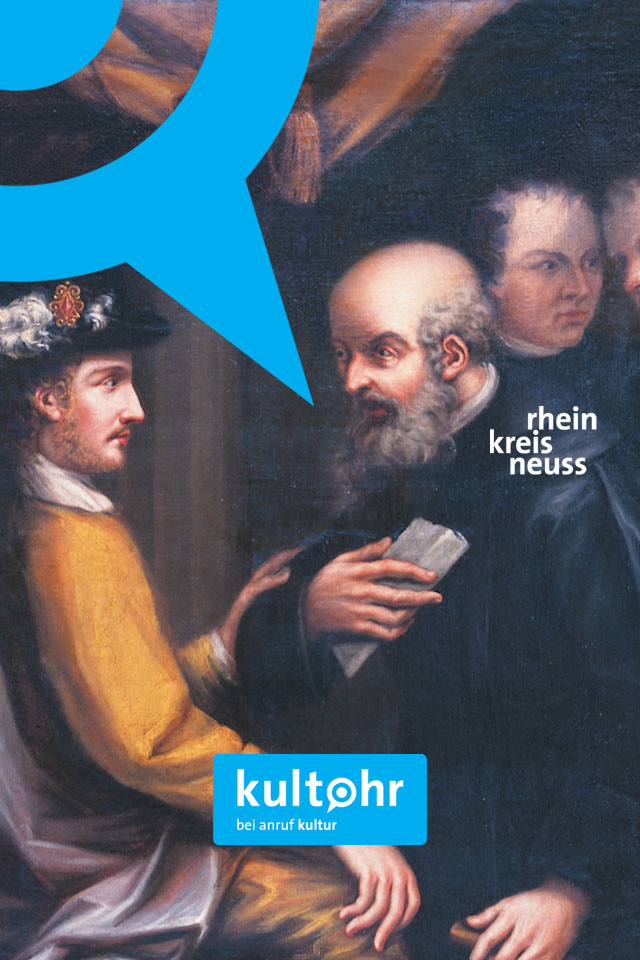
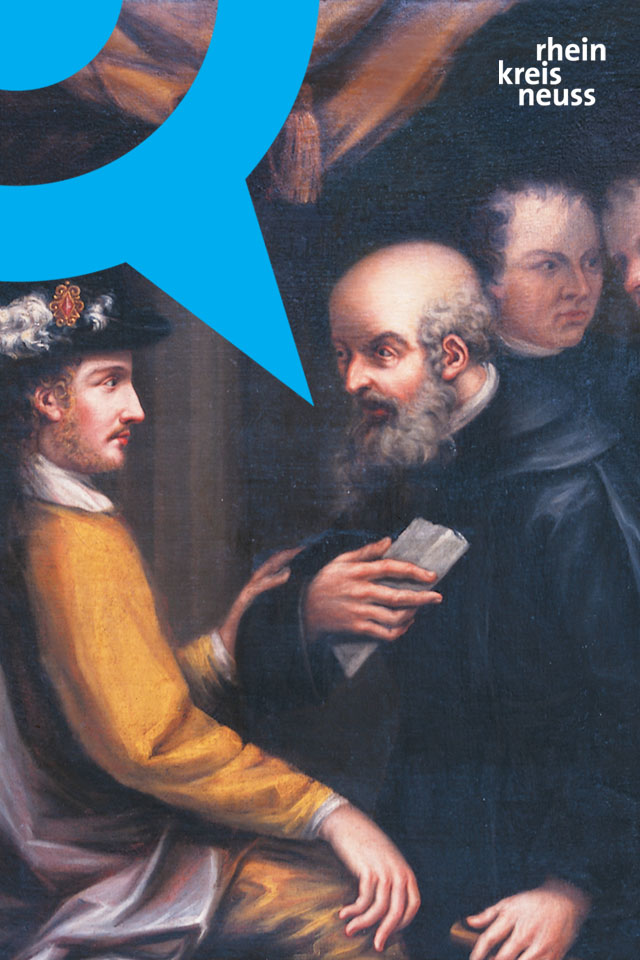
- replaced google CDN calls with http - poi categories and profiles are now ordered by alphabet - changed startpage images

Changed region(s): [[0.3125, 0.7812, 0.6875, 0.9062], [0.75, 0.4062, 0.9375, 0.5], [0.7812, 0.0312, 0.9688, 0.125]]

diff --git a/src/de/christianzunker/mobilecitygate/dao/impl/JdbcPoiCategoryDaoImpl.java b/src/de/christianzunker/mobilecitygate/dao/impl/JdbcPoiCategoryDaoImpl.java
@@ -24,7 +24,7 @@ public class JdbcPoiCategoryDaoImpl implements PoiCategoryDao {
 	@Override
 	public List<PoiCategory> getCategories() {
 		logger.debug("entering method getCategories");
-		List<PoiCategory> poiCategories = this.jdbcTemplate.query("SELECT id, name, short_name, icon FROM poi_categories", new PoiCategoryMapper());
+		List<PoiCategory> poiCategories = this.jdbcTemplate.query("SELECT id, name, short_name, icon FROM poi_categories ORDER BY poi_categories.name", new PoiCategoryMapper());
 		logger.debug("leaving method getCategories");
 		return poiCategories;
 	}
@@ -32,7 +32,7 @@ public class JdbcPoiCategoryDaoImpl implements PoiCategoryDao {
 	@Override
 	public List<PoiCategory> getCategoriesByClientLocale(int clientId, String locale) {
 		logger.debug("entering method getCategories");
-		List<PoiCategory> poiCategories = this.jdbcTemplate.query("SELECT id, name, short_name, icon FROM poi_categories WHERE client_id = " + clientId + " AND locale = '" + locale + "'", new PoiCategoryMapper());
+		List<PoiCategory> poiCategories = this.jdbcTemplate.query("SELECT id, name, short_name, icon FROM poi_categories WHERE client_id = " + clientId + " AND locale = '" + locale + "' ORDER BY poi_categories.name", new PoiCategoryMapper());
 		logger.debug("leaving method getCategories");
 		return poiCategories;
 	}
@@ -40,7 +40,7 @@ public class JdbcPoiCategoryDaoImpl implements PoiCategoryDao {
 	@Override
 	public List<PoiCategory> getActiveCategoriesByClientLocale(int clientId, String locale) {
 		logger.debug("entering method getCategories");
-		List<PoiCategory> poiCategories = this.jdbcTemplate.query("SELECT DISTINCT poi_categories.id, poi_categories.name, poi_categories.short_name, poi_categories.icon FROM poi_categories, rel_poi_category WHERE poi_categories.client_id = " + clientId + " AND poi_categories.id = rel_poi_category.category_id" + " AND poi_categories.locale = '" + locale + "'", new PoiCategoryMapper());
+		List<PoiCategory> poiCategories = this.jdbcTemplate.query("SELECT DISTINCT poi_categories.id, poi_categories.name, poi_categories.short_name, poi_categories.icon FROM poi_categories, rel_poi_category WHERE poi_categories.client_id = " + clientId + " AND poi_categories.id = rel_poi_category.category_id" + " AND poi_categories.locale = '" + locale + "' ORDER BY poi_categories.name", new PoiCategoryMapper());
 		logger.debug("leaving method getCategories");
 		return poiCategories;
 	}

diff --git a/src/de/christianzunker/mobilecitygate/dao/impl/JdbcProfileDaoImpl.java b/src/de/christianzunker/mobilecitygate/dao/impl/JdbcProfileDaoImpl.java
@@ -24,7 +24,7 @@ public class JdbcProfileDaoImpl implements ProfileDao {
 	@Override
 	public List<Profile> getProfiles() {
 		logger.debug("entering method getDisabilities");
-		List<Profile> profiles = this.jdbcTemplate.query("SELECT id, name, short_name, icon FROM profiles ORDER BY id", new ProfileMapper());
+		List<Profile> profiles = this.jdbcTemplate.query("SELECT id, name, short_name, icon FROM profiles ORDER BY profiles.name", new ProfileMapper());
 		logger.debug("leaving method getDisabilities");
 		return profiles;
 	}
@@ -32,7 +32,7 @@ public class JdbcProfileDaoImpl implements ProfileDao {
 	@Override
 	public List<Profile> getActiveProfilesByClientLocale(int clientId, String locale) {
 		logger.debug("entering method getDisabilities");
-		List<Profile> profiles = this.jdbcTemplate.query("SELECT DISTINCT profiles.id, profiles.name, profiles.short_name, profiles.icon FROM profiles, rel_poi_profile, pois WHERE profiles.id = rel_poi_profile.profile_id AND pois.id = rel_poi_profile.poi_id AND pois.client_id = " + clientId + " AND profiles.locale = '" + locale + "' ORDER BY profiles.id", new ProfileMapper());
+		List<Profile> profiles = this.jdbcTemplate.query("SELECT DISTINCT profiles.id, profiles.name, profiles.short_name, profiles.icon FROM profiles, rel_poi_profile, pois WHERE profiles.id = rel_poi_profile.profile_id AND pois.id = rel_poi_profile.poi_id AND pois.client_id = " + clientId + " AND profiles.locale = '" + locale + "' ORDER BY profiles.name", new ProfileMapper());
 		logger.debug("leaving method getDisabilities");
 		return profiles;
 	}
